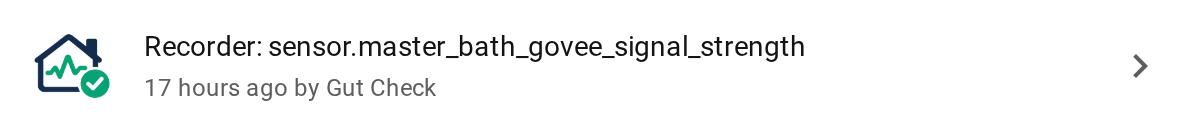
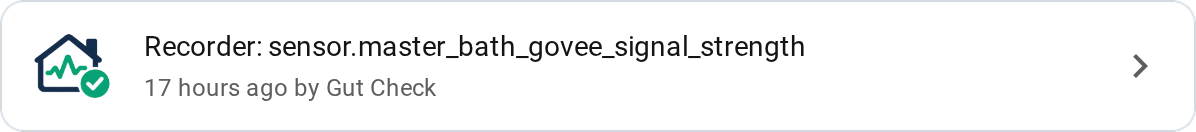
docs: frame the screenshots and number the checks in the readme (#69)
* docs: give the repairs screenshots rounded corners and a border

* docs: number the checks in what it does

* docs: give each check its own heading

Changed region(s): [[0.0, 0.9697, 0.99, 1.0], [0.0, 0.0, 0.99, 0.0303], [0.99, 0.0303, 1.0, 0.9697]]

diff --git a/README.md b/README.md
@@ -17,6 +17,14 @@ Gut Check gives your Home Assistant install a weekly checkup. It finds entities 
 ## Contents
 
 - [What it does](#what-it-does)
+  - [Home health check](#home-health-check)
+  - [Update review](#update-review)
+  - [Area suggestions](#area-suggestions)
+  - [Device class suggestions](#device-class-suggestions)
+  - [Stuck integration check](#stuck-integration-check)
+  - [Critical label suggestions](#critical-label-suggestions)
+  - [Diagnostic sensor suggestions](#diagnostic-sensor-suggestions)
+  - [Recorder suggestions](#recorder-suggestions)
 - [How Gut Check decides](#how-gut-check-decides)
 - [What Gut Check will never do](#what-gut-check-will-never-do)
 - [Install and set up](#install-and-set-up)
@@ -34,56 +42,74 @@ Gut Check gives your Home Assistant install a weekly checkup. It finds entities 
 
 ## What it does
 
-- **Home health check**: Sorts unavailable entities into expected, worth fixing and safe to remove.
-- **Update review**: Flags pending updates that might break something.
-- **Area suggestions**: Suggests an area for each device that has none.
-- **Device class suggestions**: Suggests a type for sensors that report a unit but have none.
-- **Stuck integration check**: Sorts integrations that failed to start into passing glitches, sign-in problems and broken for good.
-- **Critical label suggestions**: Finds safety devices that are missing your critical label.
-- **Diagnostic sensor suggestions**: Suggests hiding sensors about the device itself, such as Wi-Fi signal, that clutter your dashboards.
-- **Recorder suggestions**: Finds the entities that fill the recorder fastest and suggests which to leave out of it.
+Gut Check performs 8 checks (recipes if you will):
+
+1. **Home health check**: Sorts unavailable entities into expected, worth fixing and safe to remove.
+2. **Update review**: Flags pending updates that might break something.
+3. **Area suggestions**: Suggests an area for each device that has none.
+4. **Device class suggestions**: Suggests a type for sensors that report a unit but have none.
+5. **Stuck integration check**: Sorts integrations that failed to start into passing glitches, sign-in problems and broken for good.
+6. **Critical label suggestions**: Finds safety devices that are missing your critical label.
+7. **Diagnostic sensor suggestions**: Suggests hiding sensors about the device itself, such as Wi-Fi signal, that clutter your dashboards.
+8. **Recorder suggestions**: Finds the entities that fill the recorder fastest and suggests which to leave out of it.
 
 The first five are on when you add Gut Check. Switch the others on in Configure.
 
-**Home health check.** Unavailable entities pile up and most are harmless, so the few that need fixing get lost. Gut Check sorts them into expected (normal, nothing to do), worth fixing (should be working), and safe to remove (left over from something no longer installed). Each worth-fixing entity gets a Repairs card, which clears itself once the entity comes back.
+### Home health check
+
+Unavailable entities pile up and most are harmless, so the few that need fixing get lost. Gut Check sorts them into expected (normal, nothing to do), worth fixing (should be working), and safe to remove (left over from something no longer installed). Each worth-fixing entity gets a Repairs card, which clears itself once the entity comes back.
 
 <picture><img src="https://raw.githubusercontent.com/funkadelic/ha-gutcheck/main/docs/images/repairs/card-unavailable.png" alt="Unavailable entity card in the Repairs list" width="598"></picture>
 
 <picture><img src="https://raw.githubusercontent.com/funkadelic/ha-gutcheck/main/docs/images/repairs/modal-unavailable.png" alt="Unavailable entity card, opened" width="580"></picture>
 
-**Update review.** Most updates are safe to install, but now and then one renames or removes something your setup relies on. Gut Check reads each pending update's release notes and scores it routine, feature (adds something, nothing existing changes), or possibly breaking (removes or renames something, or needs a manual step other than a restart). Each possibly-breaking update gets a Repairs card, linking to its release notes where the integration provides them.
+### Update review
+
+Most updates are safe to install, but now and then one renames or removes something your setup relies on. Gut Check reads each pending update's release notes and scores it routine, feature (adds something, nothing existing changes), or possibly breaking (removes or renames something, or needs a manual step other than a restart). Each possibly-breaking update gets a Repairs card, linking to its release notes where the integration provides them.
 
 <picture><img src="https://raw.githubusercontent.com/funkadelic/ha-gutcheck/main/docs/images/repairs/card-update.png" alt="Possibly breaking update card in the Repairs list" width="598"></picture>
 
 <picture><img src="https://raw.githubusercontent.com/funkadelic/ha-gutcheck/main/docs/images/repairs/modal-update.png" alt="Possibly breaking update card, opened" width="580"></picture>
 
-**Area suggestions.** A device with no area is left out of room pages, room-based voice commands, and automations that target a whole room. Gut Check suggests one of your existing areas for each such device, or nothing when it isn't sure. From the suggestion's Repairs card you assign the area, or tell Gut Check not to suggest one for that device.
+### Area suggestions
+
+A device with no area is left out of room pages, room-based voice commands, and automations that target a whole room. Gut Check suggests one of your existing areas for each such device, or nothing when it isn't sure. From the suggestion's Repairs card you assign the area, or tell Gut Check not to suggest one for that device.
 
 <picture><img src="https://raw.githubusercontent.com/funkadelic/ha-gutcheck/main/docs/images/repairs/card-area.png" alt="Area card in the Repairs list" width="598"></picture>
 
 <picture><img src="https://raw.githubusercontent.com/funkadelic/ha-gutcheck/main/docs/images/repairs/modal-area.png" alt="Area card, opened" width="580"></picture>
 
-**Device class suggestions.** A device class tells Home Assistant what a sensor measures, such as temperature, energy or humidity. Without one, the sensor gets a generic icon, its units can't be converted, and an energy, gas or water sensor can't go on the Energy dashboard. Gut Check suggests a class for sensors that report a unit but have none, choosing only from classes that accept that unit. You set it, pick a different class, or decline from its Repairs card.
+### Device class suggestions
+
+A device class tells Home Assistant what a sensor measures, such as temperature, energy or humidity. Without one, the sensor gets a generic icon, its units can't be converted, and an energy, gas or water sensor can't go on the Energy dashboard. Gut Check suggests a class for sensors that report a unit but have none, choosing only from classes that accept that unit. You set it, pick a different class, or decline from its Repairs card.
 
 <picture><img src="https://raw.githubusercontent.com/funkadelic/ha-gutcheck/main/docs/images/repairs/card-device-class.png" alt="Device class card in the Repairs list" width="598"></picture>
 
 <picture><img src="https://raw.githubusercontent.com/funkadelic/ha-gutcheck/main/docs/images/repairs/modal-device-class.png" alt="Device class card, opened" width="580"></picture>
 
-**Stuck integration check.** An integration that fails to start only shows an error in the integrations list, so it's easy to miss for weeks. Gut Check reads the error each one reported and sorts it as a passing glitch, a sign-in problem, or broken for good (the device or account is gone, or Home Assistant stopped retrying). Sign-in problems and broken integrations get a Repairs card linking to the integration's page. So does any integration Gut Check stays unsure about for a week; that card shows the error and makes no guess at the cause.
+### Stuck integration check
 
-**Critical label suggestions.** Your critical label marks the entities and devices Gut Check must never act on, such as smoke alarms, leak sensors and water shutoff valves. The health check still tells you when one goes offline. This check finds the ones you haven't labelled yet. Smoke, carbon monoxide and gas sensors are suggested from their type alone, and Gut Check asks Jev about valves, switches, sirens and moisture sensors. Confirming a card adds the label to that entity only. Pick your critical label in Configure first.
+An integration that fails to start only shows an error in the integrations list, so it's easy to miss for weeks. Gut Check reads the error each one reported and sorts it as a passing glitch, a sign-in problem, or broken for good (the device or account is gone, or Home Assistant stopped retrying). Sign-in problems and broken integrations get a Repairs card linking to the integration's page. So does any integration Gut Check stays unsure about for a week; that card shows the error and makes no guess at the cause.
+
+### Critical label suggestions
+
+Your critical label marks the entities and devices Gut Check must never act on, such as smoke alarms, leak sensors and water shutoff valves. The health check still tells you when one goes offline. This check finds the ones you haven't labelled yet. Smoke, carbon monoxide and gas sensors are suggested from their type alone, and Gut Check asks Jev about valves, switches, sirens and moisture sensors. Confirming a card adds the label to that entity only. Pick your critical label in Configure first.
 
 <picture><img src="https://raw.githubusercontent.com/funkadelic/ha-gutcheck/main/docs/images/repairs/card-critical-label.png" alt="Critical label card in the Repairs list" width="598"></picture>
 
 <picture><img src="https://raw.githubusercontent.com/funkadelic/ha-gutcheck/main/docs/images/repairs/modal-critical-label.png" alt="Critical label card, opened" width="580"></picture>
 
-**Diagnostic sensor suggestions.** Many integrations add sensors about the device itself rather than your home, such as Wi-Fi signal strength, the network a phone is on, or its SIM carrier or storage. They crowd your temperatures and power readings on auto-generated dashboards and area pages. Gut Check suggests hiding them. A hidden sensor keeps working and recording history, and you can change it back from Configure.
+### Diagnostic sensor suggestions
+
+Many integrations add sensors about the device itself rather than your home, such as Wi-Fi signal strength, the network a phone is on, or its SIM carrier or storage. They crowd your temperatures and power readings on auto-generated dashboards and area pages. Gut Check suggests hiding them. A hidden sensor keeps working and recording history, and you can change it back from Configure.
 
 <picture><img src="https://raw.githubusercontent.com/funkadelic/ha-gutcheck/main/docs/images/repairs/card-hide-diagnostic.png" alt="Diagnostic sensor card in the Repairs list" width="598"></picture>
 
 <picture><img src="https://raw.githubusercontent.com/funkadelic/ha-gutcheck/main/docs/images/repairs/modal-hide-diagnostic.png" alt="Diagnostic sensor card, opened" width="580"></picture>
 
-**Recorder suggestions.** Home Assistant's recorder keeps every state change for its history and statistics, and a few chatty entities, such as a sensor that updates every few seconds, can take up much of the database. Gut Check counts each entity's changes over the last week from the recorder itself. For the busiest ones it asks whether the history is worth keeping as it is, worth keeping at a slower rate (a setting on the device or integration), or not needed. Up to ten "not needed" answers a run, busiest first, get a Repairs card with a snippet to add to your configuration.yaml yourself. Gut Check never changes your recorder settings, and this check is off until you switch it on.
+### Recorder suggestions
+
+Home Assistant's recorder keeps every state change for its history and statistics, and a few chatty entities, such as a sensor that updates every few seconds, can take up much of the database. Gut Check counts each entity's changes over the last week from the recorder itself. For the busiest ones it asks whether the history is worth keeping as it is, worth keeping at a slower rate (a setting on the device or integration), or not needed. Up to ten "not needed" answers a run, busiest first, get a Repairs card with a snippet to add to your configuration.yaml yourself. Gut Check never changes your recorder settings, and this check is off until you switch it on.
 
 <picture><img src="https://raw.githubusercontent.com/funkadelic/ha-gutcheck/main/docs/images/repairs/card-recorder-exclude.png" alt="Recorder card in the Repairs list" width="598"></picture>
 
